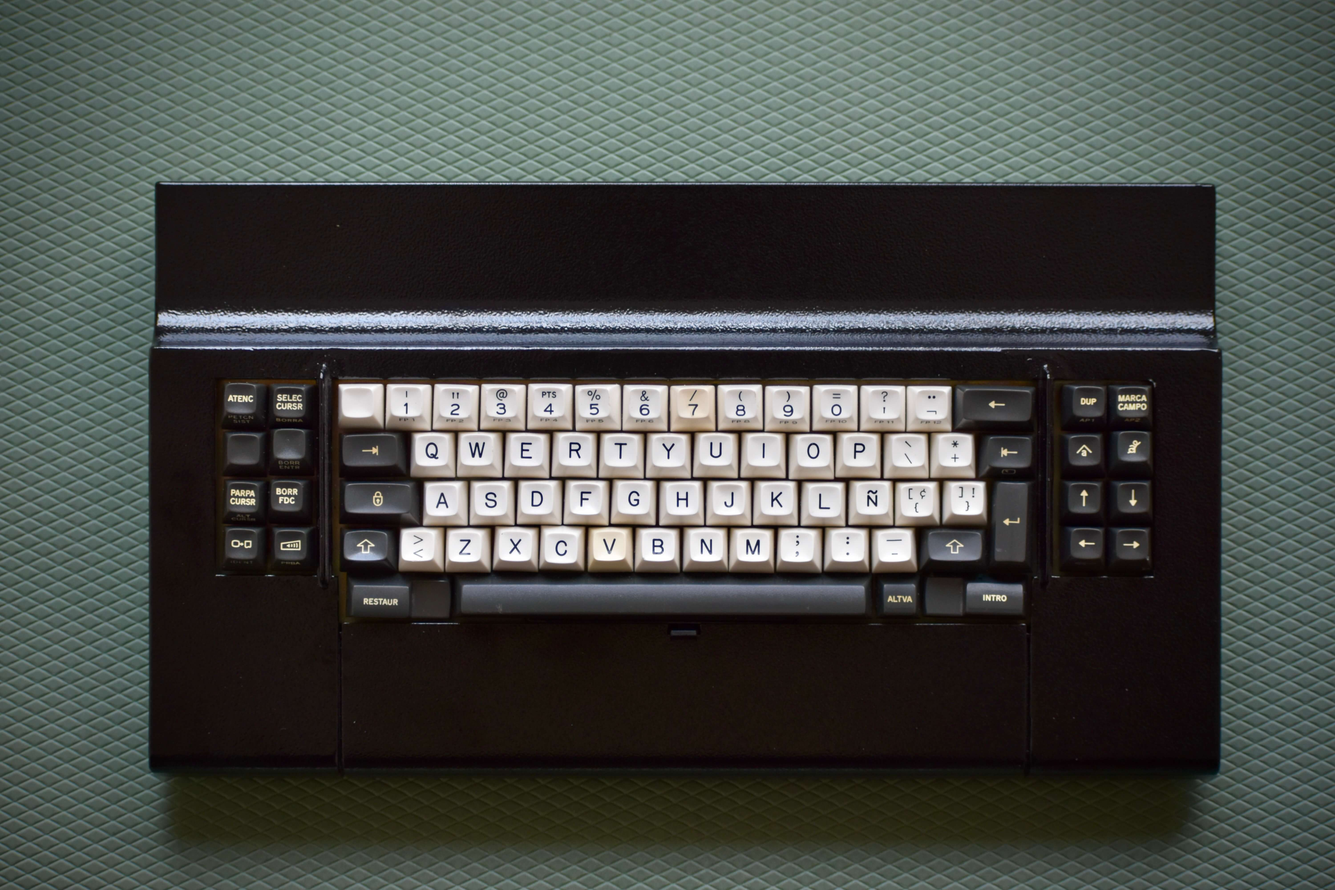
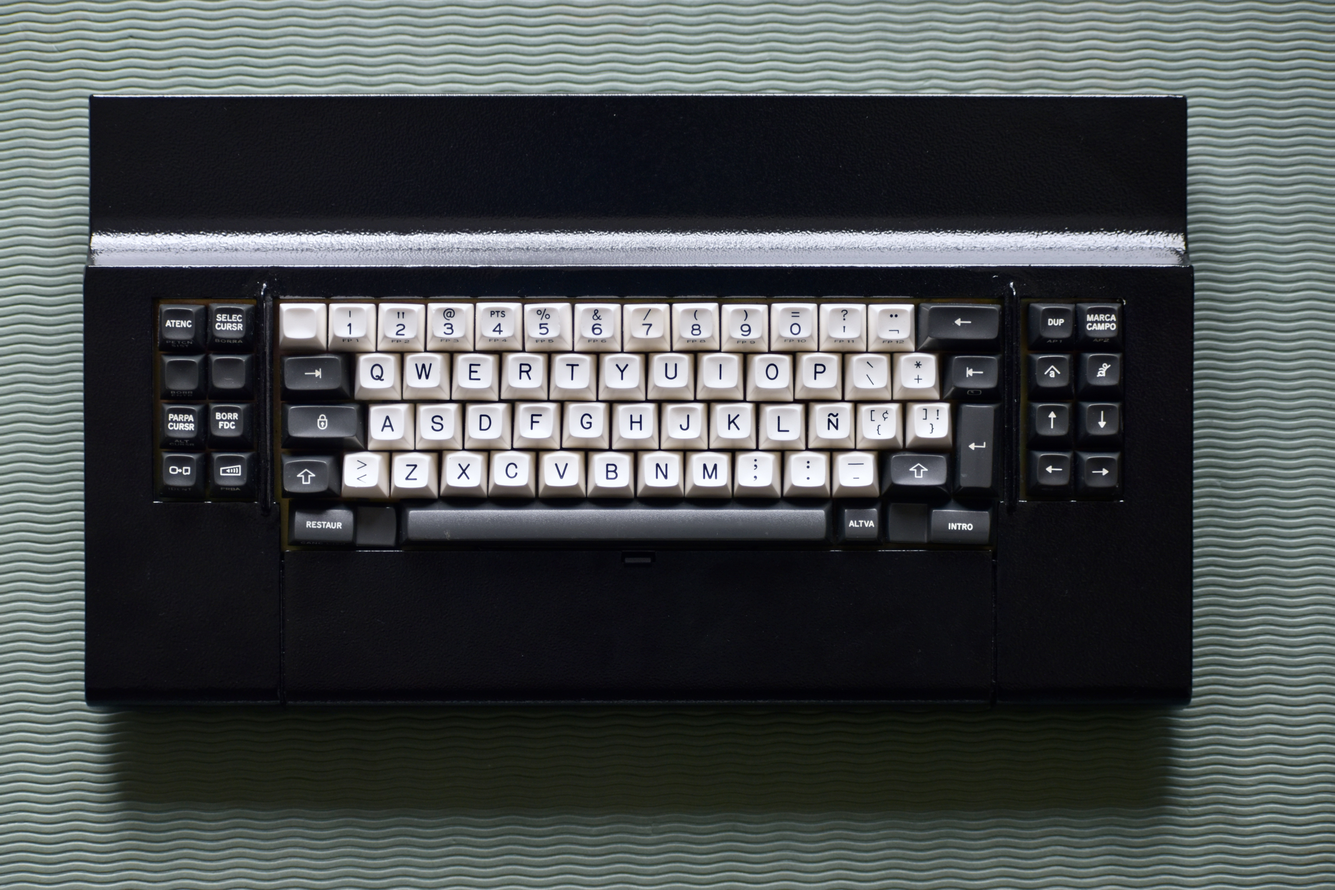
Update IBM 3278 post

diff --git a/content/collections/ibm_3278.md b/content/collections/ibm_3278.md
@@ -18,6 +18,7 @@ on camera.
 
 <div class="post-image">
   <img src="/images/collections/ibm_3278_powdercoated.jpg" />
+  <span class="img-description"> Glossy black powdercoating </span>
 </div>
 
 The board wasn't in a terrible condition when I got it. The foam had turned
@@ -26,7 +27,28 @@ foam and replaced it.
 
 <div class="post-image">
   <img src="/images/collections/ibm_3278_foam.jpg" />
+  <span class="img-description"> Handmade replacement foam </span>
 </div>
 
-I got Pandrew's version of Xwhatsit controller and a solenoid driver to replace
-the original controller. After a bit hacking around with qmk, I got it working.
+I got [Pandrew's version of the Xwhatsit controller](https://github.com/purdeaandrei/CompactBeamSpring) to replace the original
+controller. I got Pandrew's solenoid driver too, and after a bit of hacking
+around with QMK, I got it working.
+
+<div class="post-image">
+  <img src="/images/collections/ibm_3278_no_case.jpg" />
+  <span class="img-description"> Replacement controllers and solenoid </span>
+</div>
+
+There are some corrosions on the plate but I was told that they won't grow, so
+I didn't bother. There was a bit of rust on the switch springs, so I tried to
+take apart the switches to clean them but found them hard to disassemble and
+ultimately gave up. The rust doesn't affect the smoothness of the switches.
+
+I used the board for a week as my daily driver with the solenoid on. I wasn't
+very impressed with the heavy space bar as it tired my thumb after every 15
+minutes. Apart from that, this board is an absolute joy to have and is
+a thing of beauty.
+
+I love this board, and hopefully, it will be on my secondary machine for years
+to come, but right now, I will get back to my beloved [F AT](/collections/ibm_model_f_at/) and get some work
+done.
